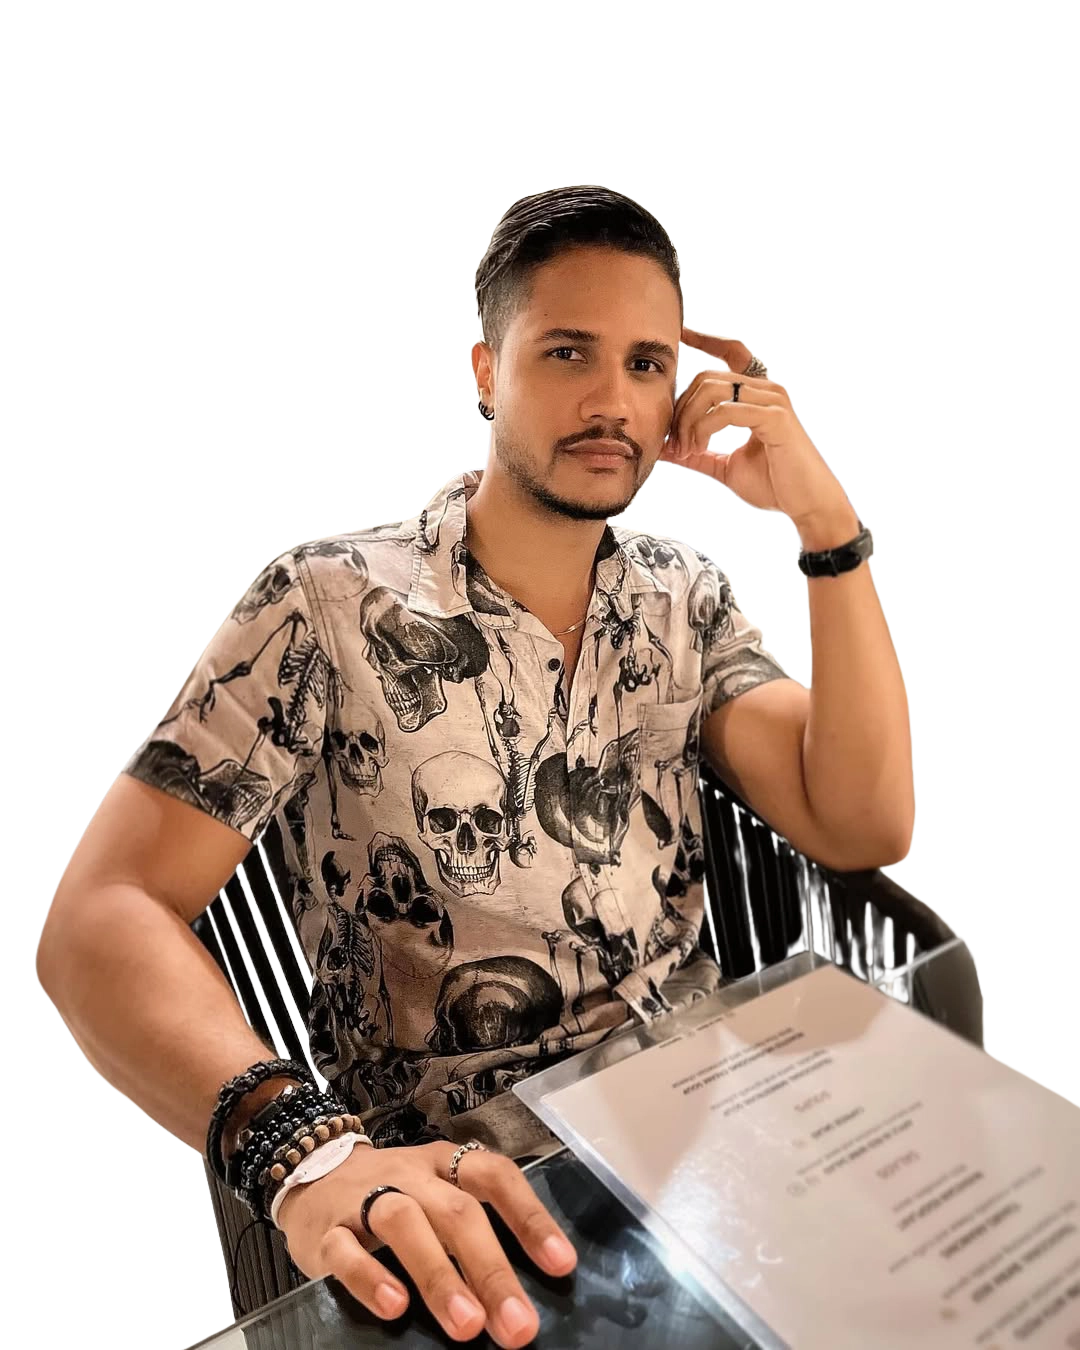
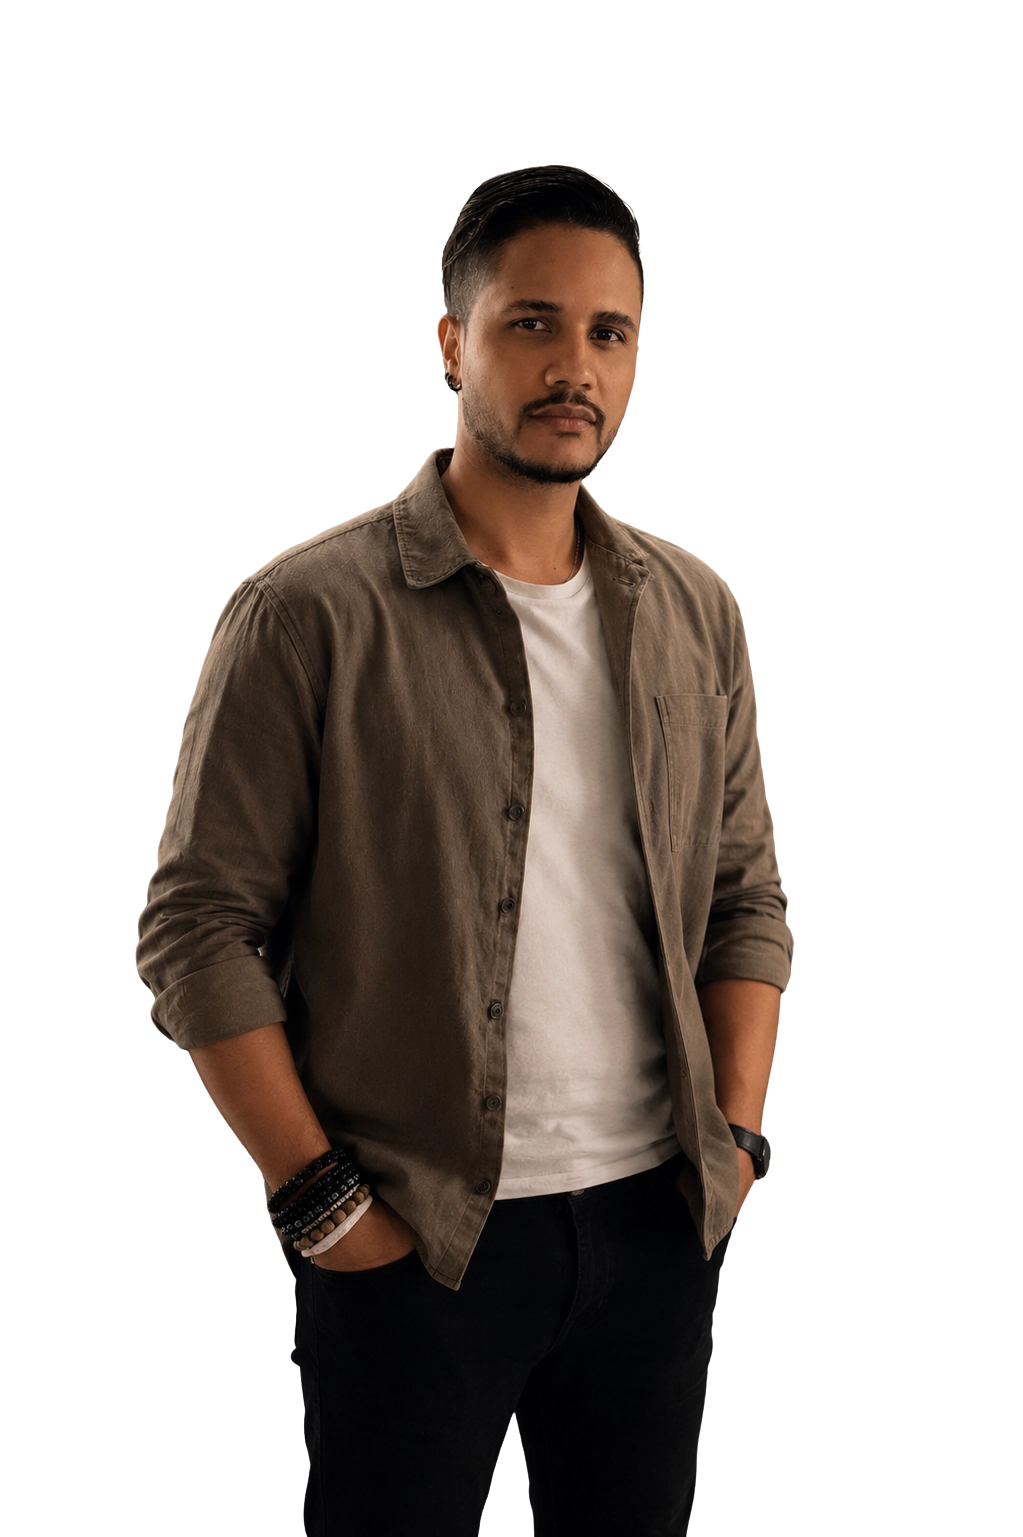
style: update global styles and assets

diff --git a/src/styles/global.css b/src/styles/global.css
@@ -20,8 +20,8 @@
   /* ============================================
    * PRIMITIVE COLOR TOKENS — Neutrals (Slate)
    * ============================================ */
-  --color-neutral-0:   #ffffff;
-  --color-neutral-50:  #f8fafc;
+  --color-neutral-0: #ffffff;
+  --color-neutral-50: #f8fafc;
   --color-neutral-100: #f1f5f9;
   --color-neutral-200: #e2e8f0;
   --color-neutral-300: #cbd5e1;
@@ -34,16 +34,46 @@
   --color-neutral-950: #020617;
 
   /* ============================================
-   * SEMANTIC COLOR TOKENS — Light Mode (Default)
+   * SEMANTIC TOKENS — Backgrounds & Surfaces
    * ============================================ */
-  --color-background:   var(--color-neutral-50);
-  --color-surface:      var(--color-neutral-0);
-  --color-secondary:    var(--color-green-vogue-50);
+  --color-bg-main: var(--color-neutral-50);
+  --color-bg-card: var(--color-neutral-0);
+  --color-bg-sunken: var(--color-neutral-100);
+  --color-bg-overlay: color-mix(
+    in srgb,
+    var(--color-neutral-900) 80%,
+    transparent
+  );
+
+  /* ============================================
+   * SEMANTIC TOKENS — Typography
+   * ============================================ */
   --color-text-primary: var(--color-neutral-900);
-  --color-text-muted:   var(--color-neutral-500);
-  --color-accent:       var(--color-green-vogue-950);
-  --color-accent-hover: var(--color-green-vogue-800);
-  --color-border:       var(--color-neutral-200);
+  --color-text-secondary: var(--color-neutral-700);
+  --color-text-muted: var(--color-neutral-500);
+  --color-text-on-dark: var(--color-neutral-0);
+
+  /* ============================================
+   * SEMANTIC TOKENS — Actions & Accents
+   * ============================================ */
+  --color-action-primary: var(--color-green-vogue-950);
+  --color-action-primary-hover: var(--color-green-vogue-800);
+  --color-action-secondary: var(--color-neutral-200);
+
+  /* Shared Semantic Aliases (Legacy Support) */
+  --color-background: var(--color-bg-main);
+  --color-surface: var(--color-bg-card);
+  --color-accent: var(--color-action-primary);
+  --color-border: var(--color-neutral-200);
+
+  /* ----------------------------------------
+   * Warm Accent (Orange / Amber) Tokens
+   * ---------------------------------------- */
+  --color-accent-warm: #f6ad55; /* Vibrant amber — decorative on dark bg */
+  --color-accent-warm-text: #b45309; /* Amber-700 — text on white/light bg    */
+  --color-accent-warm-light: #fef3c7; /* Amber-100 — badge backgrounds         */
+  --color-accent-warm-mid: #f59e0b; /* Amber-500 — decorative lines/strokes  */
+  --color-on-accent-warm: #78350f; /* Amber-900 — text on amber-100 bg      */
 
   /* Typography Scale */
   --font-family-headings: "Manrope", "Poppins", "Inter", system-ui, sans-serif;
@@ -58,26 +88,40 @@
   --space-xl: calc(var(--space-unit) * 4);
 
   /* Border Radii */
-  --radius-sm: 4px;
-  --radius-md: 8px;
-  --radius-lg: 16px;
+  --radius-xs: 4px;
+  --radius-sm: 6px;
+  --radius-md: 12px;
+  --radius-lg: 20px;
   --radius-full: 9999px;
 
   /* Transitions */
-  --transition-fast: 0.2s ease;
-  --transition-normal: 0.3s ease;
+  --transition-fast: 0.2s cubic-bezier(0.4, 0, 0.2, 1);
+  --transition-normal: 0.3s cubic-bezier(0.4, 0, 0.2, 1);
 }
 
 /* Dark Mode Overrides */
 :root.dark-mode {
-  --color-background:   var(--color-neutral-950);
-  --color-surface:      var(--color-neutral-900);
-  --color-secondary:    var(--color-green-vogue-950);
+  --color-bg-main: var(--color-neutral-950);
+  --color-bg-card: var(--color-neutral-900);
+  --color-bg-sunken: var(--color-neutral-950);
+
   --color-text-primary: var(--color-neutral-50);
-  --color-text-muted:   var(--color-neutral-400);
-  --color-accent:       var(--color-green-vogue-400);
-  --color-accent-hover: var(--color-green-vogue-300);
-  --color-border:       var(--color-neutral-800);
+  --color-text-secondary: var(--color-neutral-300);
+  --color-text-muted: var(--color-neutral-400);
+
+  --color-action-primary: var(--color-green-vogue-300);
+  --color-action-primary-hover: var(--color-green-vogue-200);
+
+  --color-accent: var(--color-action-primary);
+  --color-background: var(--color-bg-main);
+  --color-surface: var(--color-bg-card);
+  --color-border: var(--color-neutral-800);
+
+  /* Warm Accent — dark mode */
+  --color-accent-warm: #fbbf24;
+  --color-accent-warm-text: #fbbf24;
+  --color-accent-warm-light: rgba(251, 191, 36, 0.12);
+  --color-on-accent-warm: #fef3c7;
 }
 
 /* Base Reset & Styles */
@@ -95,7 +139,7 @@ html {
 }
 
 body {
-  background-color: var(--color-background);
+  background-color: var(--color-bg-main);
   color: var(--color-text-primary);
   font-family: var(--font-family-body);
   line-height: 1.6;
@@ -116,6 +160,7 @@ h6 {
   font-weight: 700;
   line-height: 1.1;
   color: var(--color-text-primary);
+  letter-spacing: -0.02em;
 }
 
 a {
@@ -146,11 +191,9 @@ img {
 .text-accent {
   color: var(--color-accent);
 }
-
 .bg-surface {
-  background-color: var(--color-surface);
+  background-color: var(--color-bg-card);
 }
-
 .section-padding {
   padding: var(--space-xl) 0;
 }